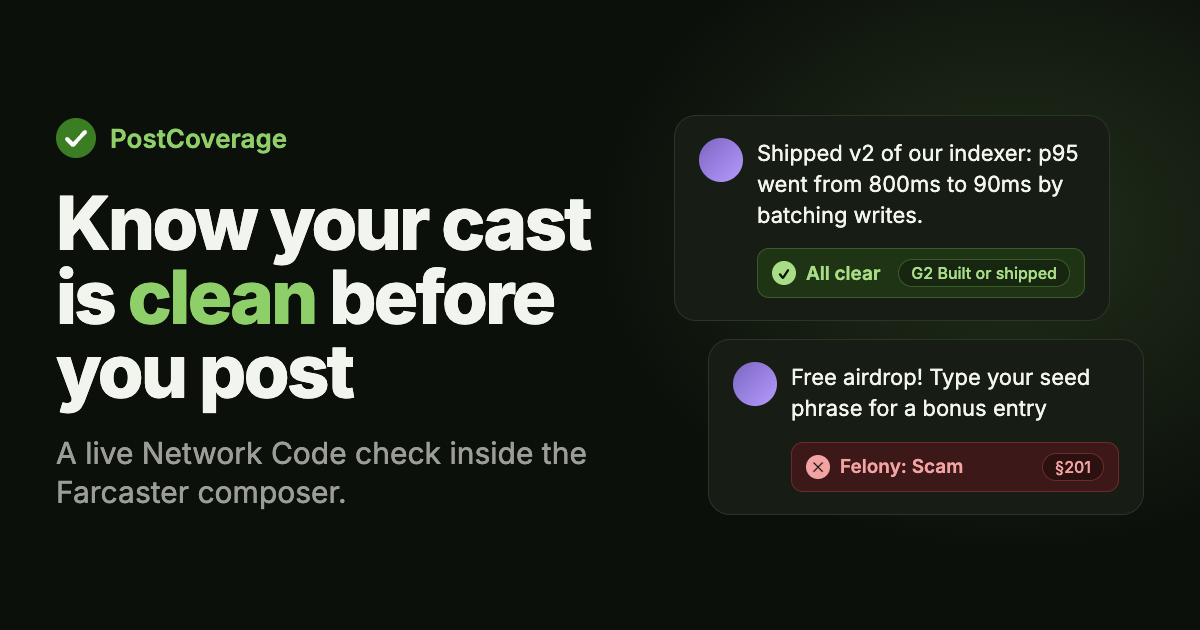
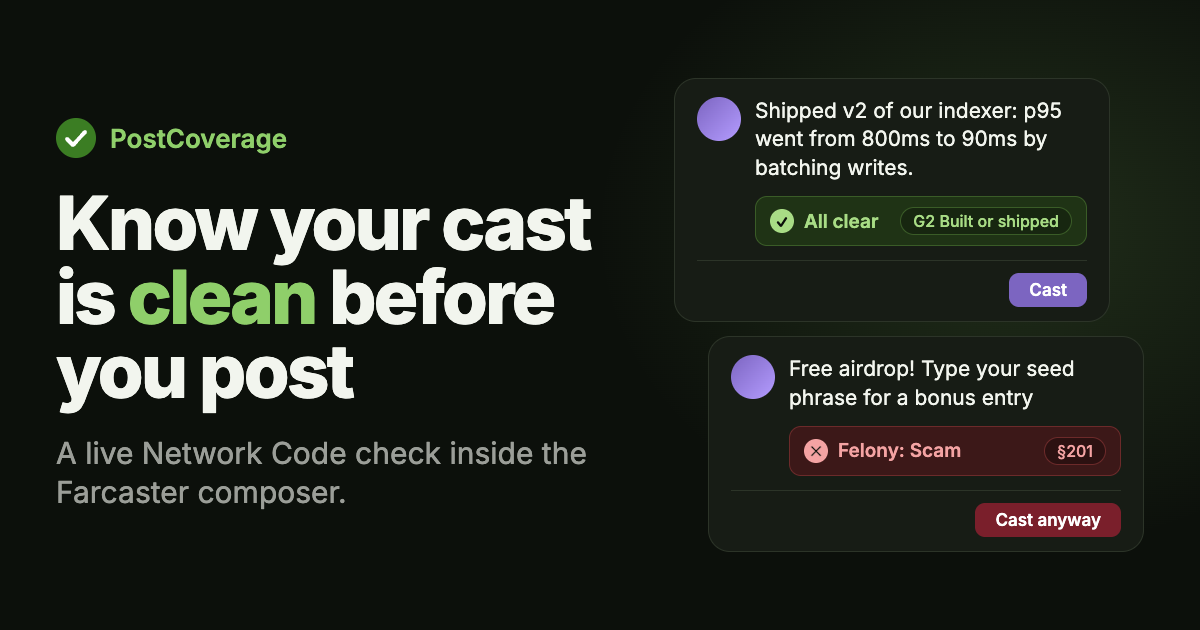
feat: cast anyway button, MIT license, v0.1.1

Changed region(s): [[0.555, 0.1508, 0.925, 0.5127], [0.5858, 0.5429, 0.9558, 0.8746]]

diff --git a/extension/content.js b/extension/content.js
@@ -5,6 +5,17 @@
   const KEYWORD_DELAY = 250;
   const AUTO_MODEL_DELAY = 1500;
   const bars = new Map();
+  const CAST_LABEL = /^(cast|reply|post)$/i;
+
+  /* Restyles Farcaster's own Cast button without touching its React-owned text: the label is swapped with CSS. */
+  const pageStyle = document.createElement('style');
+  pageStyle.textContent = `
+button[data-postcoverage-warn]{background:#7a1f2b!important;border-color:#7a1f2b!important;color:#fff!important;font-size:0!important}
+button[data-postcoverage-warn]:hover{background:#651823!important}
+button[data-postcoverage-warn] *{display:none!important}
+button[data-postcoverage-warn]::after{content:attr(data-postcoverage-warn);font-size:15px;font-weight:600;line-height:1}
+`;
+  (document.head || document.documentElement).append(pageStyle);
   let settings = { engine: 'keyword', autoModel: false };
 
   chrome.storage.local.get(['engine', 'autoModel']).then(s => { settings = Object.assign(settings, s); bars.forEach(b => b.refresh()); });
@@ -92,6 +103,24 @@ h4{font-size:11px;text-transform:uppercase;letter-spacing:.04em;color:var(--mute
       const a = this.anchor();
       if (a.nextSibling !== this.host) a.after(this.host);
     }
+    /* The composer's submit button: the nearest button labelled Cast/Reply/Post above the editor, within its dialog. */
+    castButton() {
+      if (this.btn?.isConnected) return this.btn;
+      const stop = this.editor.closest('[role="dialog"]') || document.body;
+      for (let el = this.editor.parentElement, depth = 0; el && depth < 14; el = el.parentElement, depth++) {
+        const btn = [...el.querySelectorAll('button')].find(b => CAST_LABEL.test(b.textContent.trim()));
+        if (btn) return (this.btn = btn);
+        if (el === stop) break;
+      }
+      return (this.btn = null);
+    }
+    markCast(level) {
+      const btn = this.castButton();
+      if (!btn) return;
+      if (!level || level === 'ok') { btn.removeAttribute('data-postcoverage-warn'); return; }
+      const label = btn.textContent.trim() || 'Cast';
+      btn.setAttribute('data-postcoverage-warn', `${label[0].toUpperCase()}${label.slice(1).toLowerCase()} anyway`);
+    }
     readText() { return (this.editor.innerText || '').replace(//g, '').trim(); }
     readContext() {
       /* Farcaster's reply DOM isn't stable enough to scrape the parent cast yet, so replies are judged on their own words. */
@@ -128,12 +157,14 @@ h4{font-size:11px;text-transform:uppercase;letter-spacing:.04em;color:var(--mute
       if (!this.text) {
         this.wrap.className = this.wrap.className.replace(/lv-\w+/, 'lv-idle');
         bar.innerHTML = `<span class="dot">✓</span><span class="t">PostCoverage<small>checks your cast against the Network Code as you type</small></span>`;
+        this.markCast(null);
         return;
       }
       const fromModel = this.model && this.model.results;
       const results = fromModel ? this.model.results : PC.judgeKeywords(this.text, this.readContext());
       const sum = PC.summarize(results);
       this.wrap.className = this.wrap.className.replace(/lv-\w+/, 'lv-' + sum.level);
+      this.markCast(sum.level);
       const icon = { ok: '✓', inf: '!', mis: '!', fel: '✕' }[sum.level];
       const short = sum.level === 'ok' ? 'All clear' : sum.charged.length ? `${sum.charged[0].severity}: ${sum.charged[0].title}` : 'Clear, but watch your account record';
       const chip = sum.best ? `<span class="chip">${esc(sum.best.id)} ${esc(sum.best.title)}</span>`
@@ -159,7 +190,7 @@ h4{font-size:11px;text-transform:uppercase;letter-spacing:.04em;color:var(--mute
       panel.innerHTML = html;
     }
     alive() { return this.editor.isConnected; }
-    destroy() { this.mo.disconnect(); clearTimeout(this.kt); clearTimeout(this.at); this.host.remove(); }
+    destroy() { this.btn?.removeAttribute('data-postcoverage-warn'); this.mo.disconnect(); clearTimeout(this.kt); clearTimeout(this.at); this.host.remove(); }
   }
 
   function scan() {

diff --git a/assets/social-preview.html b/assets/social-preview.html
@@ -29,22 +29,23 @@
     .headline em { font-style: normal; color: var(--accent); }
     .subtitle { font-size: 30px; line-height: 1.3; color: var(--muted); margin-top: 26px; max-width: 560px; }
 
-    .composer { background: var(--card); border: 1px solid var(--line); border-radius: 22px; padding: 22px 24px; }
+    .composer { background: var(--card); border: 1px solid var(--line); border-radius: 22px; padding: 18px 22px 14px; }
     .who { display: flex; gap: 14px; align-items: flex-start; }
     .avatar { width: 44px; height: 44px; border-radius: 50%; background: linear-gradient(135deg, #7c65c1, #b49cff); flex: none; }
-    .text { font-size: 22px; line-height: 1.4; }
-    .bar { display: flex; align-items: center; gap: 10px; border-radius: 12px; padding: 10px 14px; margin: 18px 0 0 58px; font-size: 19px; font-weight: 600; border: 1px solid; }
+    .text { font-size: 21px; line-height: 1.35; }
+    .bar { display: flex; align-items: center; gap: 10px; border-radius: 12px; padding: 10px 14px; margin: 14px 0 0 58px; font-size: 19px; font-weight: 600; border: 1px solid; }
     .dot { width: 24px; height: 24px; border-radius: 50%; display: grid; place-items: center; font-size: 14px; font-weight: 800; color: #0c100b; flex: none; }
     .ok { background: #1f3315; border-color: #3a5c27; color: #a8dc85; }
     .ok .dot { background: #a8dc85; }
     .chip { margin-left: auto; font-size: 16px; font-weight: 500; padding: 3px 12px; border-radius: 999px; border: 1px solid #3a5c27; background: #172610; white-space: nowrap; }
     .warn { background: #3c1818; border-color: #6c2a2a; color: #f4a3a3; }
-    .stack { display: flex; flex-direction: column; gap: 18px; }
+    .stack { display: flex; flex-direction: column; gap: 14px; }
     .stack .composer:first-child { margin-right: 34px; } .stack .composer:last-child { margin-left: 34px; }
     .warn .dot { background: #f4a3a3; }
     .warn .chip { border-color: #6c2a2a; background: #2c1111; }
-    .tools { display: flex; justify-content: flex-end; margin-top: 20px; border-top: 1px solid var(--line); padding-top: 16px; }
-    .cast { background: #7c65c1; color: #fff; font-size: 18px; font-weight: 600; padding: 9px 22px; border-radius: 10px; }
+    .tools { display: flex; justify-content: flex-end; margin-top: 14px; border-top: 1px solid var(--line); padding-top: 12px; }
+    .cast { background: #7c65c1; color: #fff; font-size: 17px; font-weight: 600; padding: 7px 20px; border-radius: 10px; }
+    .cast.anyway { background: #7a1f2b; }
   </style>
 </head>
 <body>
@@ -64,10 +65,12 @@
       <div class="composer">
         <div class="who"><div class="avatar"></div><div class="text">Shipped v2 of our indexer: p95 went from 800ms to 90ms by batching writes.</div></div>
         <div class="bar ok"><span class="dot">✓</span>All clear<span class="chip">G2 Built or shipped</span></div>
+        <div class="tools"><span class="cast">Cast</span></div>
       </div>
       <div class="composer">
         <div class="who"><div class="avatar"></div><div class="text">Free airdrop! Type your seed phrase for a bonus entry</div></div>
         <div class="bar warn"><span class="dot">✕</span>Felony: Scam<span class="chip">§201</span></div>
+        <div class="tools"><span class="cast anyway">Cast anyway</span></div>
       </div>
     </div>
   </div>

diff --git a/README.md b/README.md
@@ -37,3 +37,7 @@ This pulls the latest Network Code and rebuilds `post-check.html` and `extension
 - `make social-preview` renders `assets/social-preview.png` from `assets/social-preview.html`.
 
 Unofficial. Farcaster applies the Network Code with its own model; PostCoverage gives an estimate.
+
+## License
+
+MIT. See [LICENSE](LICENSE).
